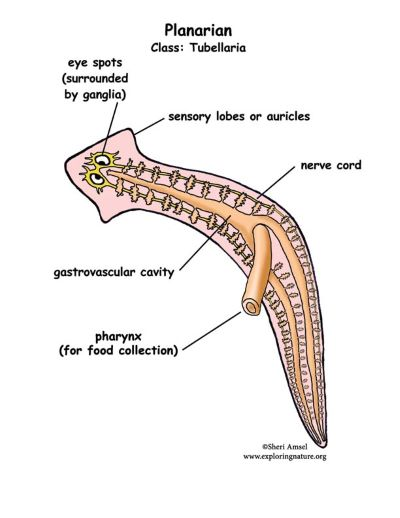
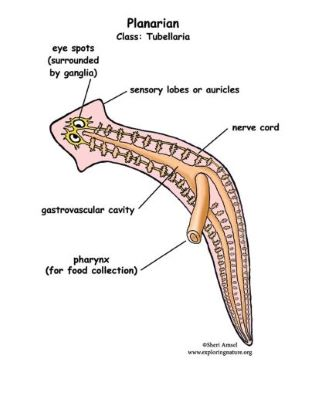
Add files via upload

diff --git a/islt_7310/style.css b/islt_7310/style.css
@@ -371,8 +371,8 @@ h5 {
             .w2 {
               grid-column: 2;
               Grid-row: 4;
-              height: 700px;
-              width: 1000px;
+              height: 550px;
+              width: 500px;
               background-color:whitesmoke;
               background-image: url(platyhelminthes.jpg);
               background-repeat: no-repeat;
